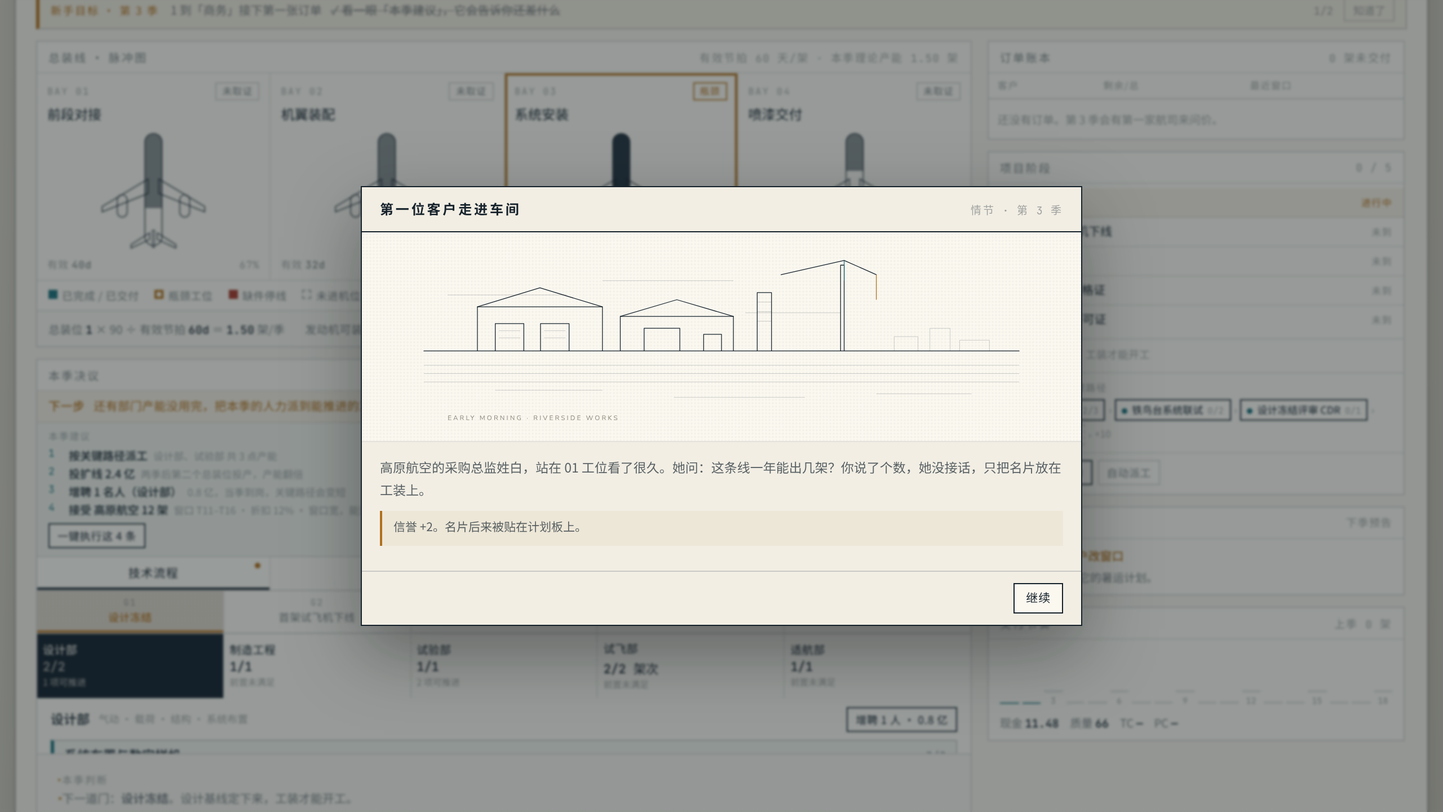
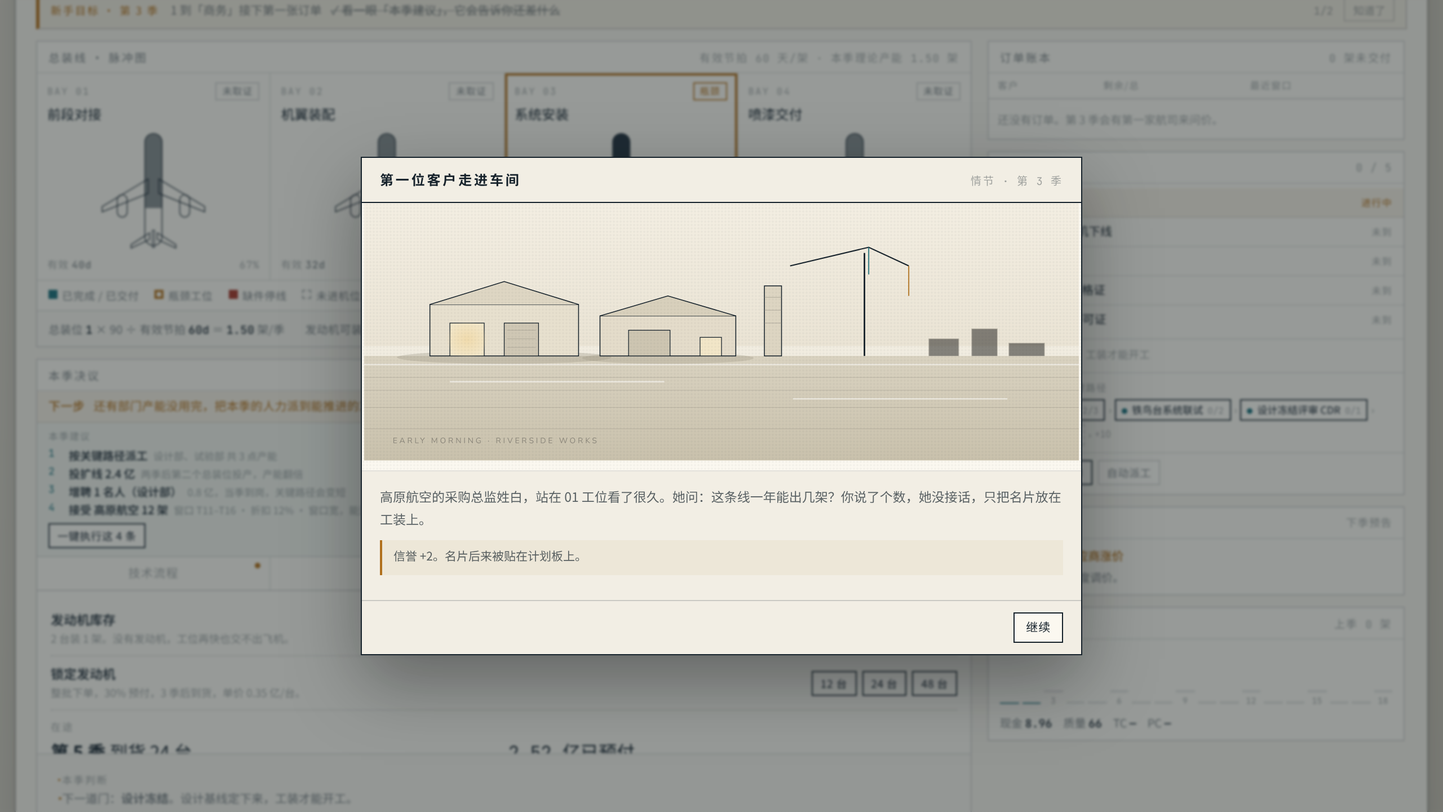
feat(game): 序章改用照片优先 + 场景插画升级
- 序章与情节插图升级为带光影层次的场景（天空/地面渐变、
  暖光门洞、地面反光、投影），不再是纯线稿示意
- 新增照片层：assets/prologue-{yard,shop,notebook,board,runway}.jpg
  存在则用照片（object-fit cover + 低饱和暖色滤镜），
  缺失自动回退线稿，不会开天窗
- assets/README.md 说明五个文件名与建议尺寸
- 同步实机截图与文档，构建哈希 b96ded233c3bbd6e

diff --git a/games/aircraft-manufacturer/ui.js b/games/aircraft-manufacturer/ui.js
@@ -90,135 +90,163 @@
   const ART_TEAL = 'fill="none" stroke="#1E6F78" stroke-width="1.2"';
   const ART_AMBER = 'fill="none" stroke="#B0701C" stroke-width="1.2"';
 
+  // 照片放在 assets/ 下，存在则优先使用；缺失时自动回退到线稿
+  const PHOTO_SRC = {
+    yard: 'assets/prologue-yard.jpg',
+    shop: 'assets/prologue-shop.jpg',
+    desk: 'assets/prologue-notebook.jpg',
+    board: 'assets/prologue-board.jpg',
+    runway: 'assets/prologue-runway.jpg'
+  };
+  function artBlock(key) {
+    const svg = PROLOGUE_ART[key] || '';
+    const src = PHOTO_SRC[key];
+    if (!src) return '<div class="proart">' + svg + '</div>';
+    return '<div class="proart">' +
+      '<img class="artimg" src="' + src + '" alt="" onerror="this.parentNode.classList.add(\'noimg\');this.remove()">' +
+      '<div class="artfallback">' + svg + '</div>' +
+      '</div>';
+  }
+
   function artWrap(inner, vb) {
     return '<svg viewBox="' + (vb || '0 0 1000 360') + '" preserveAspectRatio="xMidYMid meet" style="width:100%;height:100%;display:block">' + inner + '</svg>';
   }
 
   const PROLOGUE_ART = {
     yard: artWrap(
-      // 地平线与江面
-      '<path d="M0 214 L1000 214" ' + ART_INK + '/>' +
-      '<g ' + ART_HATCH + '>' +
-      '<path d="M0 238 L1000 238"/><path d="M0 252 L1000 252"/><path d="M0 266 L1000 266"/>' +
-      '<path d="M120 280 L300 280"/><path d="M420 292 L640 292"/><path d="M760 286 L920 286"/>' +
-      '</g>' +
-      // 厂房
-      '<path d="M90 214 L90 140 L300 140 L300 214" ' + ART_INK + '/>' +
-      '<path d="M90 140 L195 108 L300 140" ' + ART_INK + '/>' +
-      '<path d="M120 214 L120 168 L168 168 L168 214" ' + ART_INK + '/>' +
-      '<path d="M196 214 L196 168 L244 168 L244 214" ' + ART_INK + '/>' +
-      '<g ' + ART_HATCH + '><path d="M126 180 L162 180"/><path d="M126 192 L162 192"/><path d="M202 180 L238 180"/><path d="M202 192 L238 192"/></g>' +
-      // 第二座厂房
-      '<path d="M330 214 L330 156 L520 156 L520 214" ' + ART_INK + '/>' +
-      '<path d="M330 156 L425 128 L520 156" ' + ART_INK + '/>' +
-      '<path d="M370 214 L370 176 L430 176 L430 214" ' + ART_INK + '/>' +
-      '<path d="M470 214 L470 186 L500 186 L500 214" ' + ART_INK + '/>' +
-      // 烟囱与塔吊
-      '<path d="M560 214 L560 116 L584 116 L584 214" ' + ART_INK + '/>' +
-      '<g ' + ART_HATCH + '><path d="M560 132 L584 132"/><path d="M560 148 L584 148"/><path d="M560 164 L584 164"/></g>' +
-      '<path d="M700 214 L700 70 L706 70 L706 214" ' + ART_INK + '/>' +
-      '<path d="M600 86 L706 62" ' + ART_INK + '/>' +
-      '<path d="M706 62 L760 86" ' + ART_INK + '/>' +
-      '<path d="M760 86 L760 128" ' + ART_AMBER + '/>' +
-      '<path d="M706 62 L706 96" ' + ART_TEAL + '/>' +
-      // 远处天际线
-      '<g ' + ART_HATCH + '>' +
-      '<path d="M790 214 L790 190 L830 190 L830 214"/>' +
-      '<path d="M850 214 L850 176 L884 176 L884 214"/>' +
-      '<path d="M900 214 L900 196 L950 196 L950 214"/>' +
-      '</g>' +
-      // 晨雾
-      '<g ' + ART_HATCH + '><path d="M40 120 L240 120"/><path d="M540 150 L700 150"/><path d="M300 96 L520 96"/></g>' +
-      '<text x="40" y="330" font-size="11" fill="#8D887C" font-family="monospace" letter-spacing="3">EARLY MORNING · RIVERSIDE WORKS</text>', '0 30 1000 320'),
+      '<defs>' +
+      '<linearGradient id="gSkyY" x1="0" y1="0" x2="0" y2="1"><stop offset="0" stop-color="#F3EEE2"/><stop offset="1" stop-color="#E3DBC9"/></linearGradient>' +
+      '<linearGradient id="gGndY" x1="0" y1="0" x2="0" y2="1"><stop offset="0" stop-color="#D9D2C0"/><stop offset="1" stop-color="#C9C1AC"/></linearGradient>' +
+      '<radialGradient id="gDoorY" cx="0.5" cy="0.5" r="0.5"><stop offset="0" stop-color="#F0D9A8" stop-opacity=".85"/><stop offset="1" stop-color="#F0D9A8" stop-opacity="0"/></radialGradient>' +
+      '</defs>' +
+      '<rect x="0" y="0" width="1000" height="360" fill="url(#gSkyY)"/>' +
+      '<rect x="0" y="200" width="1000" height="30" fill="#F5F1E6" opacity=".65"/>' +
+      '<rect x="0" y="214" width="1000" height="146" fill="url(#gGndY)"/>' +
+      '<g stroke="#8D887C" stroke-width=".8" opacity=".35"><path d="M0 244 L1000 244"/><path d="M0 262 L1000 262"/><path d="M0 286 L1000 286"/><path d="M0 316 L1000 316"/></g>' +
+      '<ellipse cx="196" cy="216" rx="150" ry="9" fill="#9C9482" opacity=".33"/>' +
+      '<ellipse cx="425" cy="217" rx="120" ry="8" fill="#9C9482" opacity=".3"/>' +
+      '<rect x="92" y="142" width="208" height="72" fill="#E7E0CE" stroke="#16222B" stroke-width="1.2"/>' +
+      '<path d="M92 142 L196 110 L300 142" fill="#DED6C3" stroke="#16222B" stroke-width="1.2"/>' +
+      '<rect x="120" y="168" width="48" height="46" fill="#F2E6C8" stroke="#16222B" stroke-width="1"/>' +
+      '<ellipse cx="144" cy="191" rx="30" ry="26" fill="url(#gDoorY)"/>' +
+      '<rect x="196" y="168" width="48" height="46" fill="#CFC7B4" stroke="#16222B" stroke-width="1"/>' +
+      '<g stroke="#8D887C" stroke-width=".7" opacity=".5"><path d="M200 178 L240 178"/><path d="M200 190 L240 190"/><path d="M200 202 L240 202"/></g>' +
+      '<rect x="330" y="158" width="190" height="56" fill="#E4DCCA" stroke="#16222B" stroke-width="1.2"/>' +
+      '<path d="M330 158 L425 130 L520 158" fill="#D8D0BC" stroke="#16222B" stroke-width="1.2"/>' +
+      '<rect x="370" y="178" width="58" height="36" fill="#CDC5B1" stroke="#16222B" stroke-width="1"/>' +
+      '<rect x="470" y="188" width="30" height="26" fill="#F2E6C8" stroke="#16222B" stroke-width="1"/>' +
+      '<rect x="560" y="116" width="24" height="98" fill="#DDD5C2" stroke="#16222B" stroke-width="1.2"/>' +
+      '<g stroke="#8D887C" stroke-width=".8" opacity=".55"><path d="M560 132 L584 132"/><path d="M560 150 L584 150"/><path d="M560 168 L584 168"/></g>' +
+      '<path d="M700 214 L700 70" stroke="#16222B" stroke-width="2.2"/>' +
+      '<path d="M596 88 L706 62 L762 88" stroke="#16222B" stroke-width="1.6" fill="none"/>' +
+      '<path d="M762 88 L762 130" stroke="#B0701C" stroke-width="1.4"/>' +
+      '<path d="M706 62 L706 100" stroke="#1E6F78" stroke-width="1.4"/>' +
+      '<g stroke="#8D887C" stroke-width=".9" opacity=".45"><path d="M790 214 L790 190 L832 190 L832 214"/><path d="M850 214 L850 176 L886 176 L886 214"/><path d="M902 214 L902 196 L952 196 L952 214"/></g>' +
+      '<g stroke="#FFFFFF" stroke-width="2" opacity=".5"><path d="M0 226 L1000 226"/><path d="M120 250 L420 250"/><path d="M600 274 L900 274"/></g>' +
+      '<text x="40" y="336" font-size="11" fill="#8D887C" font-family="monospace" letter-spacing="3">EARLY MORNING · RIVERSIDE WORKS</text>', '0 26 1000 322'),
+
     shop: artWrap(
-      // 屋顶桁架
-      '<g ' + ART_HATCH + '>' +
-      '<path d="M0 60 L1000 60"/><path d="M0 96 L1000 96"/>' +
-      '<path d="M60 60 L100 96 L140 60 L180 96 L220 60 L260 96 L300 60 L340 96 L380 60 L420 96"/>' +
-      '<path d="M460 60 L500 96 L540 60 L580 96 L620 60 L660 96 L700 60 L740 96 L780 60 L820 96 L860 60 L900 96 L940 60"/>' +
+      '<defs>' +
+      '<linearGradient id="gHallS" x1="0" y1="0" x2="0" y2="1"><stop offset="0" stop-color="#DCD5C4"/><stop offset="1" stop-color="#CFC8B7"/></linearGradient>' +
+      '<linearGradient id="gBarrelS" x1="0" y1="0" x2="1" y2="0"><stop offset="0" stop-color="#E9E2D0"/><stop offset=".45" stop-color="#F6F1E4"/><stop offset="1" stop-color="#CFC7B3"/></linearGradient>' +
+      '<linearGradient id="gLampS" x1="0" y1="0" x2="0" y2="1"><stop offset="0" stop-color="#F2DFB2" stop-opacity=".55"/><stop offset="1" stop-color="#F2DFB2" stop-opacity="0"/></linearGradient>' +
+      '</defs>' +
+      '<rect x="0" y="0" width="1000" height="360" fill="url(#gHallS)"/>' +
+      '<path d="M470 60 L470 300 L560 300 L560 60 Z" fill="url(#gLampS)"/>' +
+      '<path d="M150 60 L150 300 L230 300 L230 60 Z" fill="url(#gLampS)"/>' +
+      '<g stroke="#8D887C" stroke-width=".9" opacity=".55"><path d="M0 58 L1000 58"/><path d="M0 96 L1000 96"/><path d="M60 58 L100 96 L140 58 L180 96 L220 58 L260 96 L300 58 L340 96 L380 58 L420 96"/><path d="M460 58 L500 96 L540 58 L580 96 L620 58 L660 96 L700 58 L740 96 L780 58 L820 96 L860 58 L900 96 L940 58"/></g>' +
+      '<path d="M120 62 L120 132 L860 132 L860 62" stroke="#16222B" stroke-width="1.6" fill="none"/>' +
+      '<rect x="466" y="132" width="54" height="26" fill="#D8D0BD" stroke="#16222B" stroke-width="1.2"/>' +
+      '<path d="M493 158 L493 198" stroke="#16222B" stroke-width="1.2"/>' +
+      '<path d="M462 198 L524 198" stroke="#16222B" stroke-width="2"/>' +
+      '<ellipse cx="430" cy="302" rx="130" ry="12" fill="#9C9482" opacity=".3"/>' +
+      '<path d="M180 300 L180 208 L360 208 L360 300" stroke="#16222B" stroke-width="1.6" fill="none"/>' +
+      '<path d="M620 300 L620 208 L800 208 L800 300" stroke="#16222B" stroke-width="1.6" fill="none"/>' +
+      '<path d="M360 232 L620 232" stroke="#8D887C" stroke-width="1" opacity=".6"/>' +
+      '<path d="M360 268 L620 268" stroke="#8D887C" stroke-width="1" opacity=".6"/>' +
+      '<ellipse cx="470" cy="246" rx="46" ry="58" fill="url(#gBarrelS)" stroke="#16222B" stroke-width="1.6"/>' +
+      '<path d="M516 202 L604 210 L604 282 L516 290" fill="#EDE6D4" stroke="#16222B" stroke-width="1.4"/>' +
+      '<ellipse cx="604" cy="246" rx="24" ry="36" fill="#DCD4C1" stroke="#16222B" stroke-width="1.4"/>' +
+      '<g stroke="#8D887C" stroke-width=".7" opacity=".75"><path d="M470 190 L470 302"/><path d="M496 196 L496 296"/><path d="M530 200 L530 292"/><path d="M560 204 L560 288"/><path d="M590 208 L590 284"/></g>' +
+      '<g stroke="#8D887C" stroke-width=".55" opacity=".55"><path d="M452 200 L452 292"/><path d="M440 204 L440 288"/><path d="M428 208 L428 284"/></g>' +
+      '<ellipse cx="300" cy="292" rx="16" ry="4" fill="#9C9482" opacity=".45"/>' +
+      '<ellipse cx="676" cy="294" rx="14" ry="4" fill="#9C9482" opacity=".45"/>' +
+      '<g fill="#16222B" fill-opacity=".62"><circle cx="300" cy="262" r="7"/><path d="M292 270 h16 v24 h-16 z"/><circle cx="676" cy="266" r="7"/><path d="M668 274 h16 v22 h-16 z"/><circle cx="714" cy="272" r="6"/><path d="M707 279 h14 v19 h-14 z"/></g>' +
+      '<path d="M0 300 L1000 300" stroke="#16222B" stroke-width="1.6"/>' +
+      '<g stroke="#8D887C" stroke-width=".8" opacity=".4"><path d="M0 318 L1000 318"/><path d="M60 334 L240 334"/><path d="M700 334 L880 334"/></g>' +
+      '<text x="40" y="350" font-size="11" fill="#8D887C" font-family="monospace" letter-spacing="3">BAY 01 · FUSELAGE SECTION ON JIG</text>', '0 30 1000 330'),
+
+    desk: artWrap(
+      '<defs>' +
+      '<linearGradient id="gDeskD" x1="0" y1="0" x2="0" y2="1"><stop offset="0" stop-color="#DCD3BF"/><stop offset="1" stop-color="#C8BFA9"/></linearGradient>' +
+      '<radialGradient id="gLampD" cx="0.18" cy="0.25" r="0.85"><stop offset="0" stop-color="#FBF0D4" stop-opacity=".9"/><stop offset="1" stop-color="#FBF0D4" stop-opacity="0"/></radialGradient>' +
+      '</defs>' +
+      '<rect x="0" y="0" width="1000" height="360" fill="url(#gDeskD)"/>' +
+      '<rect x="0" y="0" width="1000" height="360" fill="url(#gLampD)"/>' +
+      '<path d="M0 236 L1000 236" stroke="#A89E88" stroke-width="1.4"/>' +
+      '<path d="M60 236 L60 340 L940 340 L940 236" fill="#BFB5A0" stroke="#8D887C" stroke-width="1"/>' +
+      '<rect x="180" y="150" width="420" height="196" fill="#F7F2E4" stroke="#16222B" stroke-width="1.6"/>' +
+      '<path d="M180 150 L560 150 L610 176 L230 176 Z" fill="#EFE7D4" stroke="#16222B" stroke-width="1.2"/>' +
+      '<path d="M560 150 L610 176 L610 300 L560 346 Z" fill="#E7DECB" stroke="#16222B" stroke-width="1"/>' +
+      '<g stroke="#B0701C" stroke-width=".8" opacity=".55">' +
+      '<path d="M210 196 L520 196"/><path d="M210 210 L470 210"/><path d="M210 224 L540 224"/><path d="M210 238 L430 238"/><path d="M210 252 L500 252"/>' +
+      '<path d="M210 274 L380 274"/><path d="M210 288 L520 288"/><path d="M210 302 L450 302"/>' +
       '</g>' +
-      // 行车
-      '<path d="M120 60 L120 132 L860 132 L860 60" ' + ART_INK + '/>' +
-      '<rect x="470" y="132" width="46" height="26" ' + ART_INK + '/>' +
-      '<path d="M493 158 L493 196" ' + ART_INK + '/>' +
-      '<path d="M470 196 L516 196" ' + ART_INK + '/>' +
-      // 型架
-      '<path d="M180 300 L180 210 L360 210 L360 300" ' + ART_INK + '/>' +
-      '<path d="M620 300 L620 210 L800 210 L800 300" ' + ART_INK + '/>' +
-      // 机身筒段
-      '<ellipse cx="420" cy="244" rx="46" ry="58" ' + ART_INK + '/>' +
-      '<path d="M466 200 L600 208 L600 280 L466 288" ' + ART_TEAL + '/>' +
-      '<ellipse cx="600" cy="244" rx="26" ry="36" ' + ART_INK + '/>' +
-      '<g ' + ART_HATCH + '>' +
-      '<path d="M400 196 L400 292"/><path d="M430 190 L430 298"/><path d="M460 188 L460 300"/>' +
-      '<path d="M500 200 L500 288"/><path d="M540 204 L540 284"/>' +
-      '</g>' +
-      // 工人剪影
-      '<g fill="#16222B" fill-opacity=".55" stroke="none">' +
-      '<circle cx="300" cy="264" r="7"/><path d="M293 272 h14 v26 h-14 z"/>' +
-      '<circle cx="676" cy="268" r="7"/><path d="M669 276 h14 v24 h-14 z"/>' +
-      '<circle cx="712" cy="272" r="6"/><path d="M706 279 h12 v21 h-12 z"/>' +
-      '</g>' +
-      // 地面
-      '<path d="M0 300 L1000 300" ' + ART_INK + '/>' +
-      '<g ' + ART_HATCH + '><path d="M0 316 L1000 316"/><path d="M60 330 L240 330"/><path d="M700 330 L880 330"/></g>' +
-      '<text x="40" y="348" font-size="11" fill="#8D887C" font-family="monospace" letter-spacing="3">BAY 01 · FUSELAGE SECTION ON JIG</text>', '0 30 1000 330'),
+      '<g stroke="#16222B" stroke-width=".9" opacity=".45"><path d="M232 262 L420 262 L420 316 L232 316 Z"/><path d="M310 262 L310 316"/></g>' +
+      '<path d="M660 240 L900 240 L900 254 L660 254 Z" fill="#E2D8C2" stroke="#16222B" stroke-width="1.2"/>' +
+      '<g stroke="#16222B" stroke-width=".7" opacity=".5"><path d="M680 244 L680 250"/><path d="M700 244 L700 250"/><path d="M720 244 L720 250"/><path d="M740 244 L740 250"/><path d="M760 244 L760 250"/><path d="M780 244 L780 250"/></g>' +
+      '<path d="M652 300 L870 300 L878 312 L660 312 Z" fill="#D8CEB8" stroke="#16222B" stroke-width="1"/>' +
+      '<ellipse cx="404" cy="352" rx="220" ry="7" fill="#9C9482" opacity=".28"/>' +
+      '<text x="40" y="60" font-size="11" fill="#8D887C" font-family="monospace" letter-spacing="3">DESK DRAWER · OLD NOTEBOOK</text>', '0 30 1000 330'),
+
     board: artWrap(
-      // 房间轮廓
-      '<path d="M60 60 L940 60 L940 300 L60 300" ' + ART_INK + '/>' +
-      // 白板
-      '<rect x="120" y="86" width="420" height="150" ' + ART_INK + '/>' +
-      '<path d="M150 200 L500 200" ' + ART_INK + '/>' +
-      '<g ' + ART_AMBER + '>' +
-      '<path d="M170 200 L170 184"/><path d="M240 200 L240 176"/><path d="M310 200 L310 180"/>' +
-      '<path d="M380 200 L380 172"/><path d="M450 200 L450 178"/>' +
-      '</g>' +
-      '<g ' + ART_HATCH + '>' +
-      '<path d="M150 124 L330 124"/><path d="M150 140 L280 140"/><path d="M150 156 L360 156"/>' +
-      '<path d="M470 124 L500 124"/><path d="M470 140 L500 140"/>' +
-      '</g>' +
-      // 长桌（透视）
-      '<path d="M120 300 L200 240 L780 240 L860 300 Z" ' + ART_INK + '/>' +
-      '<path d="M200 240 L120 300" ' + ART_INK + '/>' +
-      '<path d="M780 240 L860 300" ' + ART_INK + '/>' +
-      '<g ' + ART_HATCH + '><path d="M260 252 L740 252"/><path d="M220 276 L780 276"/></g>' +
-      // 椅子
-      '<g ' + ART_INK + '>' +
-      '<path d="M300 240 L300 210 L340 210 L340 240"/>' +
-      '<path d="M440 240 L440 206 L480 206 L480 240"/>' +
-      '<path d="M580 240 L580 210 L620 210 L620 240"/>' +
-      '</g>' +
-      // 窗
-      '<rect x="640" y="86" width="240" height="110" ' + ART_INK + '/>' +
-      '<g ' + ART_HATCH + '><path d="M760 86 L760 196"/><path d="M640 141 L880 141"/></g>' +
-      '<path d="M660 196 L660 170 L700 170 L700 196" ' + ART_TEAL + '/>' +
-      '<text x="40" y="336" font-size="11" fill="#8D887C" font-family="monospace" letter-spacing="3">BOARD ROOM · 18 QUARTERS</text>', '0 40 1000 310'),
+      '<defs>' +
+      '<linearGradient id="gRoomB" x1="0" y1="0" x2="0" y2="1"><stop offset="0" stop-color="#EFE9DB"/><stop offset="1" stop-color="#DCD5C4"/></linearGradient>' +
+      '<linearGradient id="gWinB" x1="0" y1="0" x2="0" y2="1"><stop offset="0" stop-color="#F8F5EC"/><stop offset="1" stop-color="#E4DED0"/></linearGradient>' +
+      '</defs>' +
+      '<rect x="0" y="0" width="1000" height="360" fill="url(#gRoomB)"/>' +
+      '<rect x="636" y="80" width="248" height="120" fill="url(#gWinB)" stroke="#16222B" stroke-width="1.4"/>' +
+      '<g stroke="#8D887C" stroke-width="1" opacity=".7"><path d="M760 80 L760 200"/><path d="M636 140 L884 140"/></g>' +
+      '<path d="M636 200 L884 200 L920 300 L600 300 Z" fill="#F6F1E4" opacity=".45"/>' +
+      '<rect x="110" y="84" width="430" height="152" fill="#F8F5EC" stroke="#16222B" stroke-width="1.6"/>' +
+      '<path d="M140 198 L510 198" stroke="#16222B" stroke-width="1.4"/>' +
+      '<g stroke="#B0701C" stroke-width="1.6"><path d="M168 198 L168 180"/><path d="M240 198 L240 172"/><path d="M312 198 L312 176"/><path d="M384 198 L384 168"/><path d="M456 198 L456 174"/></g>' +
+      '<g stroke="#8D887C" stroke-width=".9" opacity=".75"><path d="M140 116 L330 116"/><path d="M140 132 L280 132"/><path d="M140 148 L364 148"/><path d="M140 164 L240 164"/></g>' +
+      '<g stroke="#1E6F78" stroke-width="1"><path d="M470 116 L500 116"/><path d="M470 132 L500 132"/><path d="M470 148 L500 148"/></g>' +
+      '<ellipse cx="490" cy="302" rx="290" ry="10" fill="#9C9482" opacity=".25"/>' +
+      '<path d="M120 300 L206 238 L782 238 L868 300 Z" fill="#D6CCB6" stroke="#16222B" stroke-width="1.4"/>' +
+      '<g stroke="#8D887C" stroke-width=".8" opacity=".5"><path d="M258 250 L740 250"/><path d="M214 276 L782 276"/></g>' +
+      '<g stroke="#16222B" stroke-width="1.2" fill="none"><path d="M300 238 L300 206 L342 206 L342 238"/><path d="M440 238 L440 202 L482 202 L482 238"/><path d="M580 238 L580 206 L622 206 L622 238"/></g>' +
+      '<g fill="#16222B" fill-opacity=".5"><rect x="252" y="248" width="26" height="3"/><rect x="352" y="256" width="34" height="3"/><rect x="470" y="252" width="20" height="3"/></g>' +
+      '<path d="M64 60 L64 300" stroke="#8D887C" stroke-width="1" opacity=".5"/>' +
+      '<text x="40" y="336" font-size="11" fill="#8D887C" font-family="monospace" letter-spacing="3">BOARD ROOM · 18 QUARTERS</text>', '0 30 1000 330'),
+
     runway: artWrap(
-      // 天空与地平线
-      '<path d="M0 196 L1000 196" ' + ART_INK + '/>' +
-      '<g ' + ART_HATCH + '><path d="M80 150 L300 150"/><path d="M420 128 L620 128"/><path d="M700 160 L900 160"/></g>' +
-      // 跑道透视
-      '<path d="M300 196 L120 330" ' + ART_INK + '/>' +
-      '<path d="M700 196 L880 330" ' + ART_INK + '/>' +
-      '<g ' + ART_HATCH + '>' +
-      '<path d="M340 210 L660 210"/><path d="M330 236 L670 236"/><path d="M316 264 L684 264"/><path d="M300 296 L700 296"/>' +
+      '<defs>' +
+      '<linearGradient id="gDawnR" x1="0" y1="0" x2="0" y2="1"><stop offset="0" stop-color="#DAD5C8"/><stop offset=".62" stop-color="#E8DCC4"/><stop offset="1" stop-color="#F0E2C6"/></linearGradient>' +
+      '<linearGradient id="gRwyR" x1="0" y1="0" x2="0" y2="1"><stop offset="0" stop-color="#C9C2B0"/><stop offset="1" stop-color="#B3AB98"/></linearGradient>' +
+      '</defs>' +
+      '<rect x="0" y="0" width="1000" height="360" fill="url(#gDawnR)"/>' +
+      '<rect x="0" y="150" width="1000" height="50" fill="#FBF5E6" opacity=".55"/>' +
+      '<rect x="0" y="196" width="1000" height="164" fill="url(#gRwyR)"/>' +
+      '<g stroke="#F7F2E6" stroke-width=".8" opacity=".35"><path d="M0 240 L1000 240"/><path d="M0 262 L1000 262"/><path d="M0 292 L1000 292"/><path d="M0 328 L1000 328"/></g>' +
+      '<path d="M300 196 L110 360" stroke="#F6F1E2" stroke-width="3"/>' +
+      '<path d="M700 196 L890 360" stroke="#F6F1E2" stroke-width="3"/>' +
+      '<g stroke="#F6F1E2" stroke-width="2.6"><path d="M500 302 L500 322"/><path d="M500 256 L500 278"/><path d="M500 216 L500 234"/></g>' +
+      '<g fill="#B0701C"><circle cx="352" cy="244" r="2.4"/><circle cx="330" cy="286" r="2.8"/><circle cx="646" cy="244" r="2.4"/><circle cx="672" cy="290" r="2.8"/></g>' +
+      '<path d="M792 196 L792 118 L832 118 L832 196" fill="#D9D2C0" stroke="#16222B" stroke-width="1.2"/>' +
+      '<path d="M778 118 L846 118 L846 102 L778 102 Z" fill="#E4DCCA" stroke="#16222B" stroke-width="1.2"/>' +
+      '<g stroke="#8D887C" stroke-width=".8" opacity=".6"><path d="M784 110 L840 110"/></g>' +
+      '<ellipse cx="500" cy="214" rx="90" ry="6" fill="#9C9482" opacity=".22"/>' +
+      '<g transform="translate(486,178) rotate(-8)">' +
+      '<path d="M-52 0 L44 -5 L64 0 L44 5 L-52 0 Z" fill="#2C3742" fill-opacity=".85"/>' +
+      '<path d="M-6 -2 L-26 -24 L-14 -24 L8 -2 Z" fill="#2C3742" fill-opacity=".7"/>' +
+      '<path d="M-6 2 L-26 24 L-14 24 L8 2 Z" fill="#2C3742" fill-opacity=".7"/>' +
+      '<path d="M46 -2 L58 -16 L62 -16 L56 -2 Z" fill="#2C3742" fill-opacity=".7"/>' +
+      '<path d="M-30 7 L20 7" stroke="#C9A15C" stroke-width="1" opacity=".6"/>' +
       '</g>' +
-      '<g ' + ART_TEAL + '>' +
-      '<path d="M500 300 L500 322"/><path d="M500 254 L500 278"/><path d="M500 214 L500 234"/>' +
-      '</g>' +
-      // 塔台
-      '<path d="M790 196 L790 120 L830 120 L830 196" ' + ART_INK + '/>' +
-      '<path d="M778 120 L842 120 L842 104 L778 104 Z" ' + ART_INK + '/>' +
-      '<g ' + ART_HATCH + '><path d="M784 110 L836 110"/></g>' +
-      // 飞机（远处，起飞姿态）
-      '<g transform="translate(470,176) rotate(-7)">' +
-      '<path d="M-46 0 L40 -4 L58 0 L40 4 L-46 0 Z" fill="#16222B" fill-opacity=".75" stroke="none"/>' +
-      '<path d="M-6 -2 L-24 -22 L-14 -22 L8 -2 Z" fill="#16222B" fill-opacity=".6" stroke="none"/>' +
-      '<path d="M-6 2 L-24 22 L-14 22 L8 2 Z" fill="#16222B" fill-opacity=".6" stroke="none"/>' +
-      '<path d="M42 -2 L52 -14 L56 -14 L50 -2 Z" fill="#16222B" fill-opacity=".6" stroke="none"/>' +
-      '</g>' +
-      '<g ' + ART_AMBER + '><path d="M410 190 L470 186"/><path d="M566 184 L620 190"/></g>' +
-      '<text x="40" y="336" font-size="11" fill="#8D887C" font-family="monospace" letter-spacing="3">FIRST FLIGHT · 42 MINUTES</text>', '0 66 1000 286')
+      '<g stroke="#B0701C" stroke-width="1.2" opacity=".55"><path d="M404 192 L456 188"/><path d="M576 186 L624 192"/></g>' +
+      '<text x="40" y="340" font-size="11" fill="#8D887C" font-family="monospace" letter-spacing="3">FIRST FLIGHT · 42 MINUTES</text>', '0 40 1000 320')
   };
 
   let prologuePick = { seat: 'main', route: 'clean' };
@@ -233,7 +261,7 @@
       b: `<p>干线窄体市场被两家吃掉八成：巨杉航空靠规模和全球服务网，欧陆联合靠机型族谱和产能。第三极是东方商用，靠国家意志硬撑一条产线在爬坡。</p>
           <p>剩下的缝隙有两个：一是 100 座上下、被两家都不太在意的支线喷气；二是 130 座级，正面撞上去，但量大。</p>
           <p><b>你要选一个位置站进去。</b></p>` },
-    { t: '前任总师老周', art: 'shop',
+    { t: '前任总师老周', art: 'desk',
       b: `<p>老周在这个位子上坐了六年，去年被换掉。原因是 P-7 的一次改型延期了七个月，客户退了四架。</p>
           <p>他走的那天把一本笔记本留在抽屉里。第一页写着：<b>不要在设计没冻结的时候开始做工装。</b> 你后来才知道这句话让公司赔过一笔钱。</p>` },
     { t: '董事会给了你十八个季度', art: 'board',
@@ -259,7 +287,7 @@
     const body = p.choice
       ? `<p>${p.b || ''}</p>` + p.opts.map((o) => `<div class="choice" data-pick="${p.choice}" data-val="${o.k}"><h4>${o.h}</h4><p>${o.d}</p></div>`).join('')
       : p.b;
-    const art = p.art && PROLOGUE_ART[p.art] ? `<div class="proart">${PROLOGUE_ART[p.art]}</div>` : '';
+    const art = p.art ? artBlock(p.art) : '';
     openModal(`
       <header><span class="t">${esc(p.t)}</span><span class="m">序章 ${i + 1} / ${PROLOGUE.length}</span></header>
       <div class="steps">${PROLOGUE.map((_, k) => `<i class="${k <= i ? 'on' : ''}"></i>`).join('')}</div>
@@ -783,10 +811,10 @@
   }
 
   /* ---------------- 弹窗 ---------------- */
-  const BEAT_ART = { firstflight: 'runway', visit: 'yard', notebook: 'shop', board: 'board' };
+  const BEAT_ART = { firstflight: 'runway', visit: 'yard', notebook: 'desk', board: 'board' };
   function beatArt(id) {
     const k = BEAT_ART[id];
-    return k && PROLOGUE_ART[k] ? `<div class="proart">${PROLOGUE_ART[k]}</div>` : '';
+    return k ? artBlock(k) : '';
   }
 
   function showStory() {

diff --git a/games/aircraft-manufacturer/game.css b/games/aircraft-manufacturer/game.css
@@ -394,7 +394,10 @@ button{font-family:inherit;color:inherit;background:none;border:0;cursor:pointer
 .guide .btn{margin-top:4px}
 
 /* 序章插图 */
-.proart{height:186px;background:var(--panel2);border-bottom:1px solid var(--ink-10);padding:8px 12px;position:relative}
+.proart{height:238px;background:var(--panel2);border-bottom:1px solid var(--ink-10);position:relative;overflow:hidden}
+.proart .artimg{display:block;width:100%;height:100%;object-fit:cover;filter:saturate(.78) contrast(1.04) sepia(.12) brightness(.98)}
+.proart .artfallback{display:none;position:absolute;inset:0;padding:0 2px}
+.proart.noimg .artfallback{display:block}
 .proart::after{content:"";position:absolute;inset:0;pointer-events:none;background-image:radial-gradient(rgba(22,34,43,.05) 1px,transparent 1px);background-size:3px 3px;opacity:.6}
 
 /* 新手目标条 */

diff --git a/games/aircraft-manufacturer/index.html b/games/aircraft-manufacturer/index.html
@@ -4,7 +4,7 @@
 <meta charset="utf-8">
 <meta name="viewport" content="width=device-width, initial-scale=1">
 <title>适航 · 北辰航空 P-19 项目</title>
-<link rel="stylesheet" href="game.css?v=4">
+<link rel="stylesheet" href="game.css?v=5">
 </head>
 <body>
 <svg width="0" height="0" style="position:absolute" aria-hidden="true">
@@ -52,8 +52,8 @@
 <div class="tip"></div>
 <div class="toastwrap"></div>
 
-<script src="engine.js?v=4"></script>
-<script src="codex.js?v=4"></script>
-<script src="ui.js?v=4"></script>
+<script src="engine.js?v=5"></script>
+<script src="codex.js?v=5"></script>
+<script src="ui.js?v=5"></script>
 </body>
 </html>

diff --git a/games/aircraft-manufacturer/README.md b/games/aircraft-manufacturer/README.md
@@ -60,7 +60,7 @@ python3 -m http.server 8000
 
 ### 序章与立项
 
-开局有 8 屏背景：公司、上一款机型、行业格局、前任总师、董事会目标、团队，最后是两个立项选择——站哪个座级（96 / 130 座）、怎么造（全新设计 / 改型衍生）。两个选择都会改变开局数值。其中四屏配有线稿插图（厂区、车间、董事会、首飞）。
+开局有 8 屏背景：公司、上一款机型、行业格局、前任总师、董事会目标、团队，最后是两个立项选择——站哪个座级（96 / 130 座）、怎么造（全新设计 / 改型衍生）。两个选择都会改变开局数值。其中五屏配场景图（厂区、车间、老周的笔记本、董事会、首飞）。把图片放进 `assets/` 即自动替换为照片，具体文件名见 `assets/README.md`；没有对应文件时回退到内置线稿。
 
 进入第 1 季后，界面顶部会出现**新手目标清单**，用祈使句告诉你每季该点哪里（选融资 → 派工 → 提交 → 锁发动机 → 接单 → 扩线）。第 5 季自动消失，也可以点「知道了」提前关掉。
 

diff --git a/games/aircraft-manufacturer/docs/ART_DIRECTION.md b/games/aircraft-manufacturer/docs/ART_DIRECTION.md
@@ -119,7 +119,9 @@
 
 ![情节节拍：叙事页也带插图，读完点继续](images/游戏-情节节拍.png)
 
-序章沿用同一套图纸版式，正文换成人物与场景。八屏序章里有四屏各配一张线稿插图：厂区外景、车间里的机身筒段、董事会白板、首飞跑道。插图与图鉴共用同一套线稿语言——细线、留白、少量琥珀与青色做重点，不做写实渲染，也不加动效。
+序章沿用同一套图纸版式，正文换成人物与场景。八屏序章里有五屏各配一张场景图：厂区外景、车间里的机身筒段、老周的笔记本、董事会白板、首飞跑道。
+
+**图片优先级**：`assets/prologue-*.jpg` 存在时用照片（`object-fit: cover`，统一加 `saturate .78 / sepia .12` 融入纸面），缺失时自动回退到内置线稿。照片负责情绪，线稿负责图纸感，两者可以混排。
 
 ### 5.1 实机：技术流程页
 

diff --git a/games/aircraft-manufacturer/assets/README.md b/games/aircraft-manufacturer/assets/README.md
@@ -1,0 +1,13 @@
+# 序章照片
+
+游戏会优先加载这里的照片；某个文件不存在时，自动回退到内置线稿，不会出现空图。
+
+| 文件 | 用在哪 | 建议 |
+|---|---|---|
+| `prologue-yard.jpg` | 序章第 1 屏（厂区）、情节「第一位客户走进车间」 | 横向 16:9，≥1280×720 |
+| `prologue-shop.jpg` | 序章第 2 屏（车间）、情节「老周的笔记本」备选 | 同上 |
+| `prologue-notebook.jpg` | 序章第 4 屏（前任总师）、情节「老周的笔记本」 | 同上 |
+| `prologue-board.jpg` | 序章第 5 屏（董事会）、情节「董事会前夜」 | 同上 |
+| `prologue-runway.jpg` | 情节「首飞」 | 同上 |
+
+放置后无需改代码，刷新页面即生效。照片会统一加一层低饱和与暖色滤镜（`saturate .78 / sepia .12`），与纸面界面融合。
